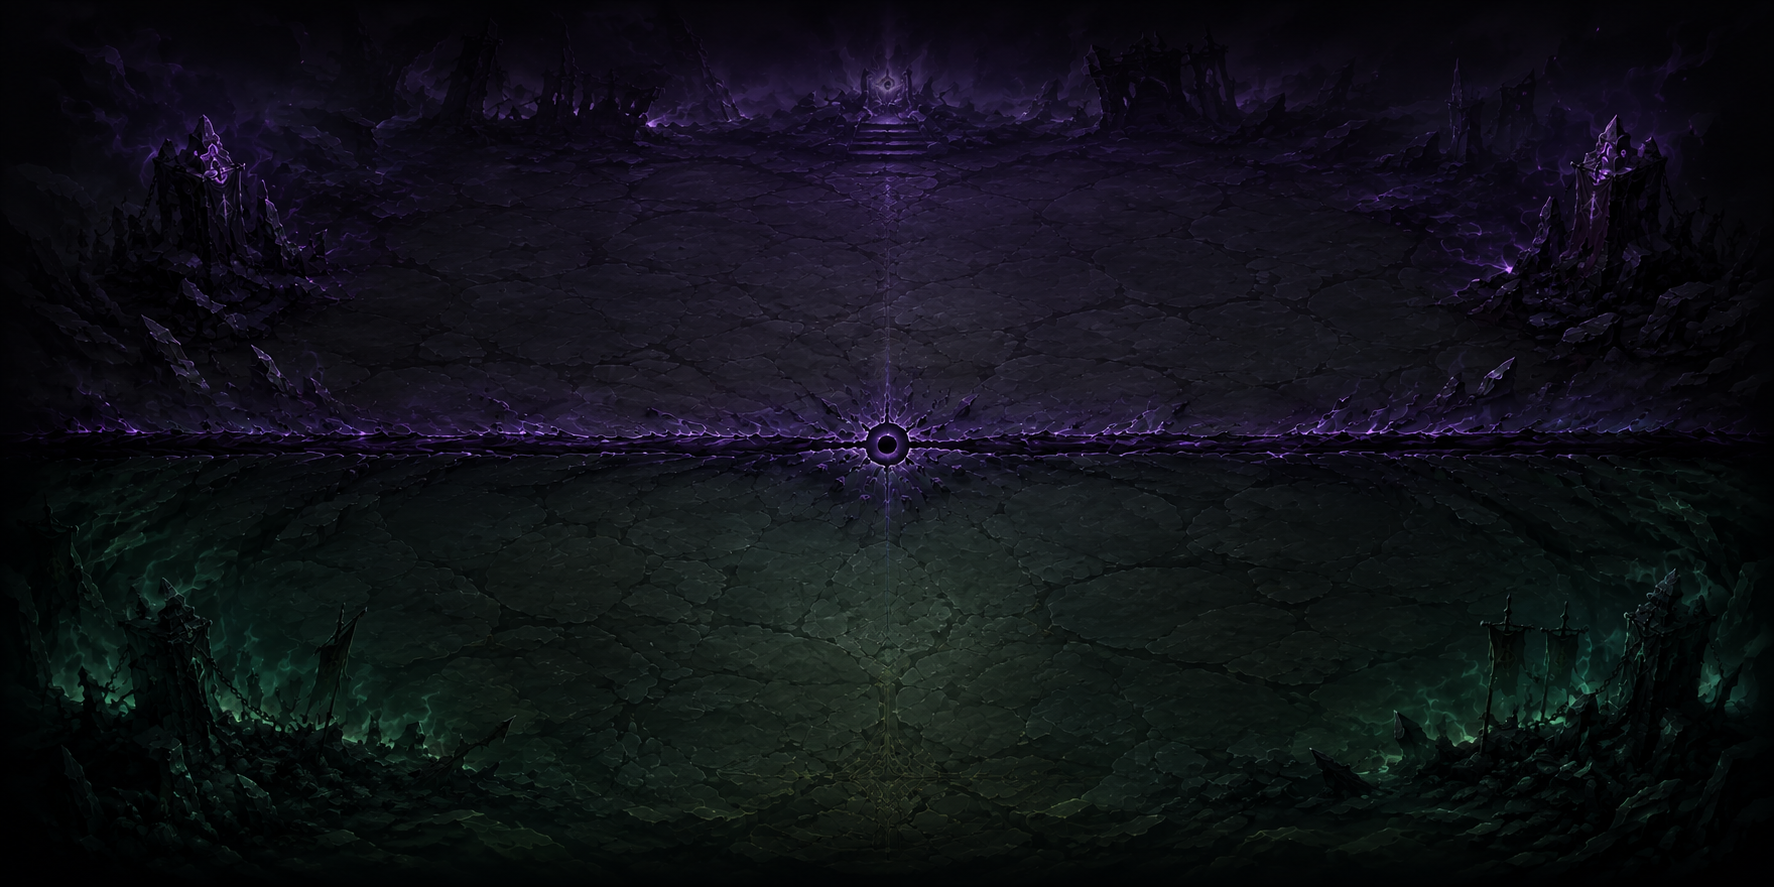
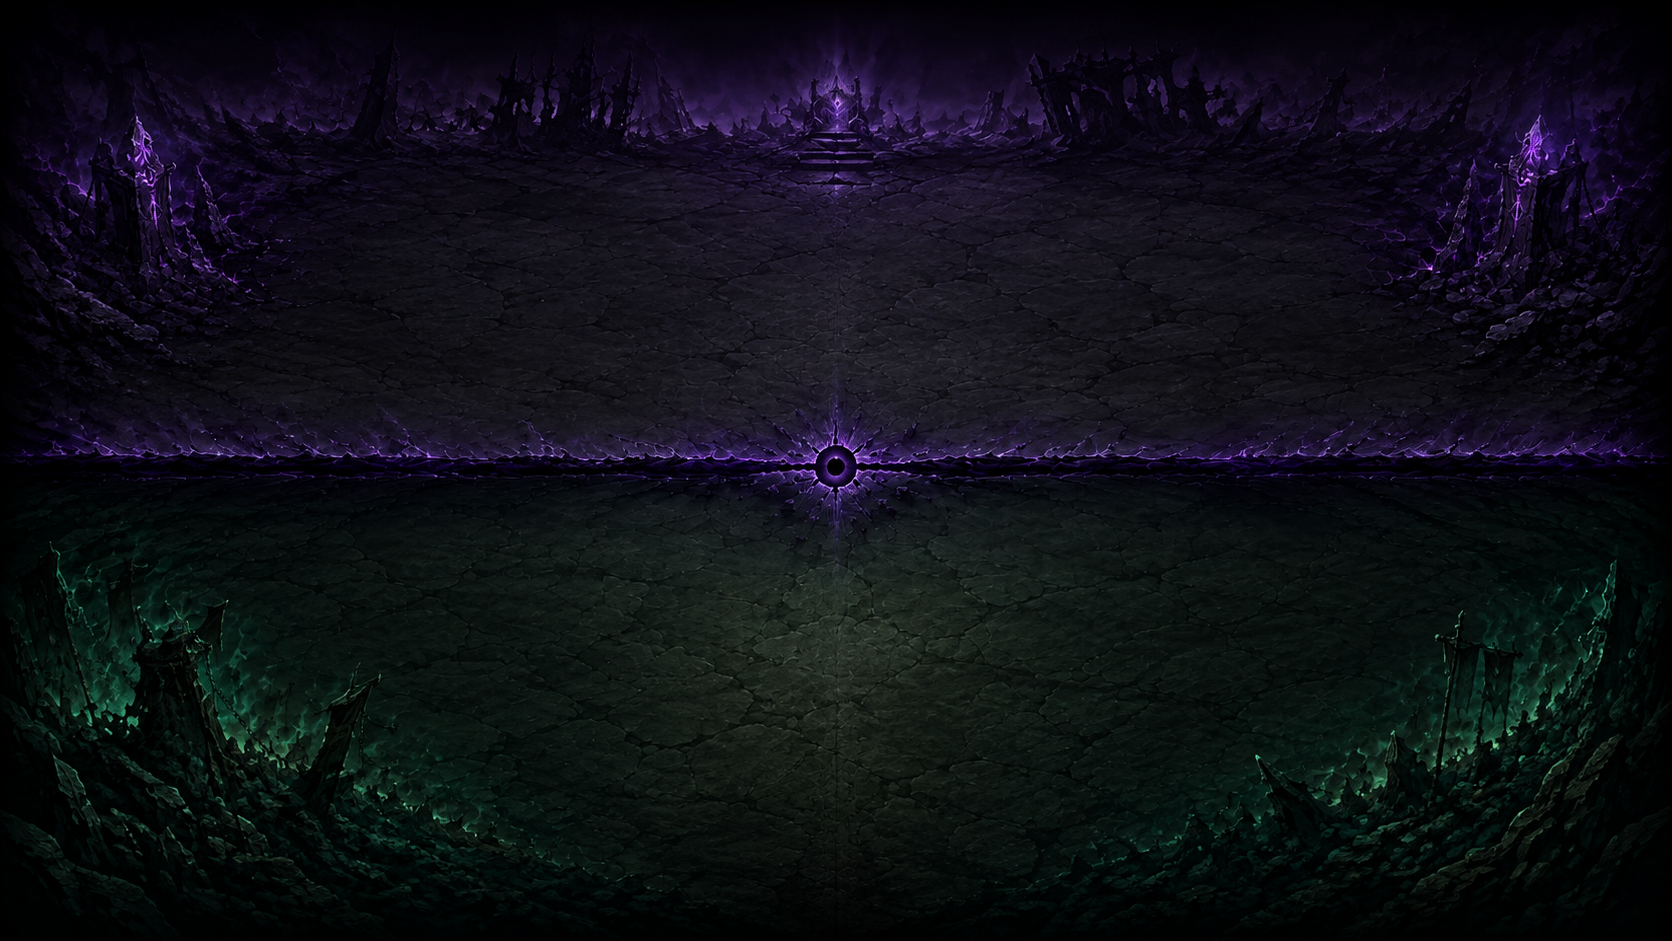
Fixed some layout issues, Changed background image of game board to fit, Updated translations

diff --git a/src/screens/GameBoard/GameBoardScreen.tsx b/src/screens/GameBoard/GameBoardScreen.tsx
@@ -206,7 +206,7 @@ const GameBoardContent: React.FC<Props> = ({ navigation, route }) => {
 
     // Dimensions
     const sideColWidth = 100;
-    const TOTAL_PLAY_SPACE = screenHeight - 60 - insets.bottom;
+    const TOTAL_PLAY_SPACE = screenHeight - 50 - insets.bottom;
 
     // Explicit Vertical Zones (35/35/30)
     const BOARD_HALF_HEIGHT = TOTAL_PLAY_SPACE * 0.35;
@@ -347,7 +347,7 @@ const GameBoardContent: React.FC<Props> = ({ navigation, route }) => {
 
                             <View style={styles.scoreBoard}>
                                 {stageId ? (
-                                    <Text variant="caption" color={colors.arcane.emerald} style={{ letterSpacing: 2, fontWeight: '900' }}>
+                                    <Text variant="caption" color={colors.arcane.emerald} style={{ letterSpacing: 2, fontWeight: '900', paddingLeft: 2, textAlign: 'center' }}>
                                         {t('common.stage', { num: stageId })}
                                     </Text>
                                 ) : (
@@ -376,7 +376,7 @@ const GameBoardContent: React.FC<Props> = ({ navigation, route }) => {
                     </View>
 
                     {/* Relic Tray - HUD */}
-                    <View style={[styles.gameRelicTray, { top: insets.top + 65 }]}>
+                    <View style={[styles.gameRelicTray, { bottom: HAND_ZONE_HEIGHT + 50 }]}>
                         <RelicTray />
                     </View>
 
@@ -498,7 +498,7 @@ const GameBoardContent: React.FC<Props> = ({ navigation, route }) => {
                                         style={StyleSheet.absoluteFill}
                                     />
                                     <View style={styles.passButtonInner}>
-                                        <Text variant="button" color={player.hasPassed ? colors.text.disabled : colors.arcane.white} style={{ fontWeight: '900', fontSize: 10, letterSpacing: 2 }}>
+                                        <Text variant="button" numberOfLines={1} adjustsFontSizeToFit color={player.hasPassed ? colors.text.disabled : colors.arcane.white} style={{ fontWeight: '900', fontSize: 10, letterSpacing: 1, textAlign: 'center', paddingHorizontal: 4 }}>
                                             {player.hasPassed ? t('common.passed') : t('common.end_turn')}
                                         </Text>
                                     </View>
@@ -598,7 +598,7 @@ const GameBoardContent: React.FC<Props> = ({ navigation, route }) => {
                                                 numberOfLines={1}
                                                 adjustsFontSizeToFit
                                                 color={colors.arcane.obsidian}
-                                                style={{ letterSpacing: 4, fontWeight: '900' }}
+                                                style={{ letterSpacing: 2, fontWeight: '900', paddingHorizontal: 8, textAlign: 'center' }}
                                             >
                                                 {t('common.continue_expedition')}
                                             </Text>
@@ -621,7 +621,7 @@ const GameBoardContent: React.FC<Props> = ({ navigation, route }) => {
                                             numberOfLines={1}
                                             adjustsFontSizeToFit
                                             color={winner === 'player' ? colors.arcane.white : colors.arcane.obsidian}
-                                            style={{ letterSpacing: 4, fontWeight: winner === 'player' ? '400' : '900' }}
+                                            style={{ letterSpacing: 2, fontWeight: winner === 'player' ? '400' : '900', paddingHorizontal: 8, textAlign: 'center' }}
                                         >
                                             {winner === 'player' ? t('common.replay') : t('common.reawaken')}
                                         </Text>
@@ -633,7 +633,7 @@ const GameBoardContent: React.FC<Props> = ({ navigation, route }) => {
                                             numberOfLines={1}
                                             adjustsFontSizeToFit
                                             color={colors.arcane.emerald}
-                                            style={{ letterSpacing: 4 }}
+                                            style={{ letterSpacing: 2, paddingHorizontal: 8, textAlign: 'center' }}
                                         >
                                             {t('common.abandon')}
                                         </Text>
@@ -679,7 +679,7 @@ const GameBoardContent: React.FC<Props> = ({ navigation, route }) => {
                                         numberOfLines={1}
                                         adjustsFontSizeToFit
                                         color={colors.arcane.white}
-                                        style={{ letterSpacing: 4 }}
+                                        style={{ letterSpacing: 2, paddingHorizontal: 8, textAlign: 'center' }}
                                     >
                                         {t('common.continue')}
                                     </Text>
@@ -765,6 +765,7 @@ const styles = StyleSheet.create({
         borderWidth: 1,
         borderColor: 'rgba(255,255,255,0.1)',
         alignItems: 'center',
+        justifyContent: 'center',
     },
     scoreBoardText: {
         color: colors.arcane.white,
@@ -890,7 +891,7 @@ const styles = StyleSheet.create({
         height: 2,
         width: '90%',
         alignSelf: 'center',
-        marginVertical: 4,
+        marginVertical: '3%',
         position: 'relative',
         justifyContent: 'center',
     },
@@ -975,7 +976,7 @@ const styles = StyleSheet.create({
     },
     overlay: { ...StyleSheet.absoluteFillObject, backgroundColor: 'rgba(0,0,0,0.9)', justifyContent: 'center', alignItems: 'center', zIndex: 200 },
     overlayCard: {
-        width: 300,
+        width: 340,
         paddingVertical: 40,
         paddingHorizontal: 32,
         backgroundColor: colors.arcane.obsidian,

diff --git a/src/screens/Campaign/ShopScreen.tsx b/src/screens/Campaign/ShopScreen.tsx
@@ -45,17 +45,17 @@ const FactionIcons: Record<string, keyof typeof Ionicons.glyphMap> = {
 export const ShopScreen: React.FC = () => {
     const navigation = useNavigation<NavigationProp>();
     const { t } = useTranslation();
-    
-    const { 
-        gold, 
-        shopStock, 
-        generateShopStock, 
-        buyItem, 
+
+    const {
+        gold,
+        shopStock,
+        generateShopStock,
+        buyItem,
     } = useCampaignStore();
-    
+
     const { getActiveDeck, addCardToDeck } = useDeckStore();
     const activeDeck = getActiveDeck();
-    
+
 
     const [alertConfig, setAlertConfig] = useState<{ visible: boolean; title: string; message: string }>({
         visible: false,
@@ -77,7 +77,7 @@ export const ShopScreen: React.FC = () => {
         if (item.purchased) return;
 
         const result = buyItem(item.id);
-        
+
         if (result.success) {
             if (item.type === 'card' && activeDeck) {
                 const cardData = getAllCards().find(c => c.id === item.itemId);
@@ -104,8 +104,8 @@ export const ShopScreen: React.FC = () => {
                 style={StyleSheet.absoluteFillObject}
             />
 
-            <ScrollView 
-                contentContainerStyle={{ flexGrow: 1, paddingBottom: 100 }} 
+            <ScrollView
+                contentContainerStyle={{ flexGrow: 1, paddingBottom: 100 }}
                 showsVerticalScrollIndicator={false}
             >
                 <View style={[styles.header, { paddingTop: insets.top + spacing.sm }]}>
@@ -114,7 +114,7 @@ export const ShopScreen: React.FC = () => {
                             <Ionicons name="chevron-back" size={24} color={colors.arcane.white} />
                         </BlurView>
                     </TouchableOpacity>
-                    
+
                     <Animated.View entering={FadeIn.delay(200)} style={styles.goldContainer}>
                         <BlurView intensity={30} tint="dark" style={styles.goldBlur}>
                             <View style={styles.goldIconCircle}>
@@ -131,14 +131,14 @@ export const ShopScreen: React.FC = () => {
                 </Animated.View>
 
                 <View style={styles.contentContainer}>
-                    
+
                     {/* RELICS SECTION */}
                     {relics.length > 0 && (
                         <View style={styles.sectionContainer}>
                             <View style={styles.sectionHeader}>
                                 <Ionicons name="sparkles" size={16} color="#f59e0b" />
                                 <Text style={[styles.sectionTitle, { color: '#f59e0b' }]}>
-                                    {t('shop.sections.relics', 'ARTIFACTS').toUpperCase()}
+                                    {t('shop.sections.artifacts').toUpperCase()}
                                 </Text>
                                 <View style={[styles.sectionLine, { backgroundColor: 'rgba(245, 158, 11, 0.2)' }]} />
                             </View>
@@ -222,7 +222,7 @@ export const ShopScreen: React.FC = () => {
                     <Animated.View entering={FadeInUp} style={styles.alertContent}>
                         <Text style={styles.alertTitle}>{alertConfig.title}</Text>
                         <Text style={styles.alertMessage}>{alertConfig.message}</Text>
-                        <TouchableOpacity 
+                        <TouchableOpacity
                             style={styles.alertButton}
                             onPress={() => setAlertConfig({ ...alertConfig, visible: false })}
                         >

diff --git a/src/screens/Campaign/CampaignMapScreen.tsx b/src/screens/Campaign/CampaignMapScreen.tsx
@@ -802,11 +802,14 @@ const styles = StyleSheet.create({
         height: 16,
         justifyContent: 'center',
         alignItems: 'center',
+        paddingHorizontal: 4,
     },
     pillBadgeText: {
         color: colors.arcane.obsidian,
         fontSize: 10,
         fontWeight: 'bold',
+        textAlign: 'center',
+        lineHeight: 12,
     },
     biomeHeaderContainer: {
         alignItems: 'center',
